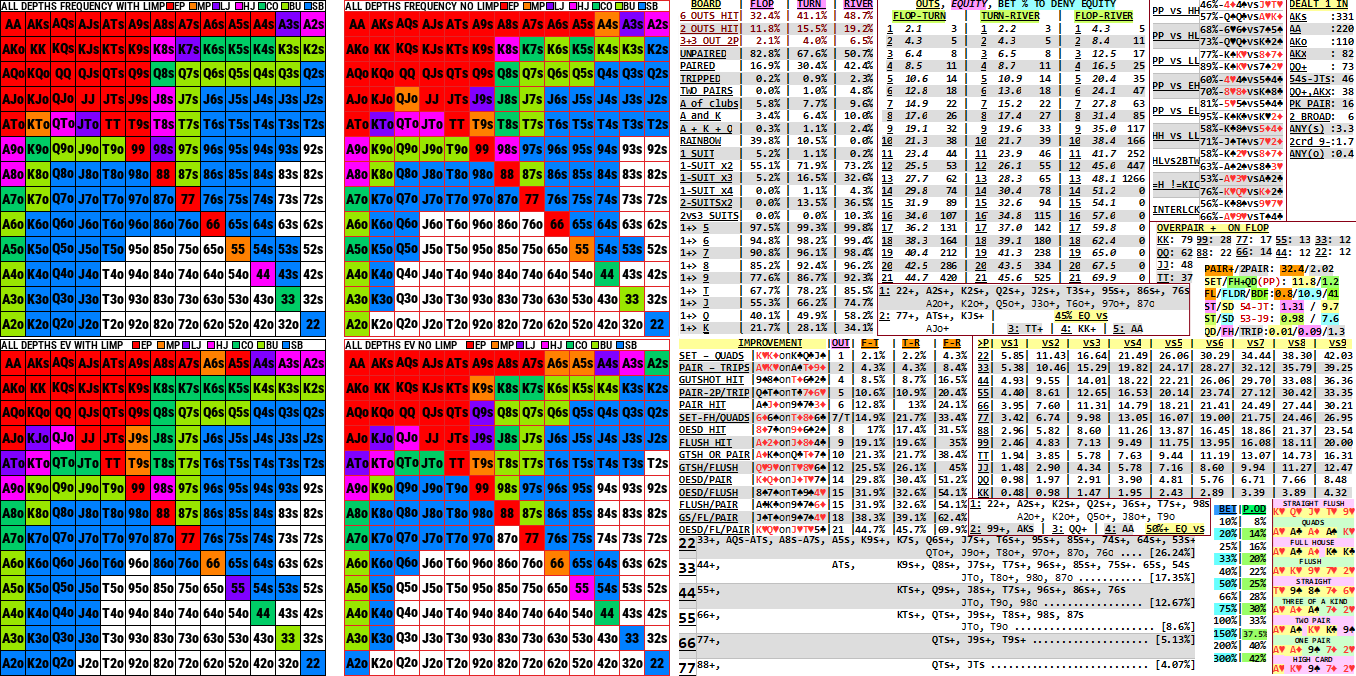
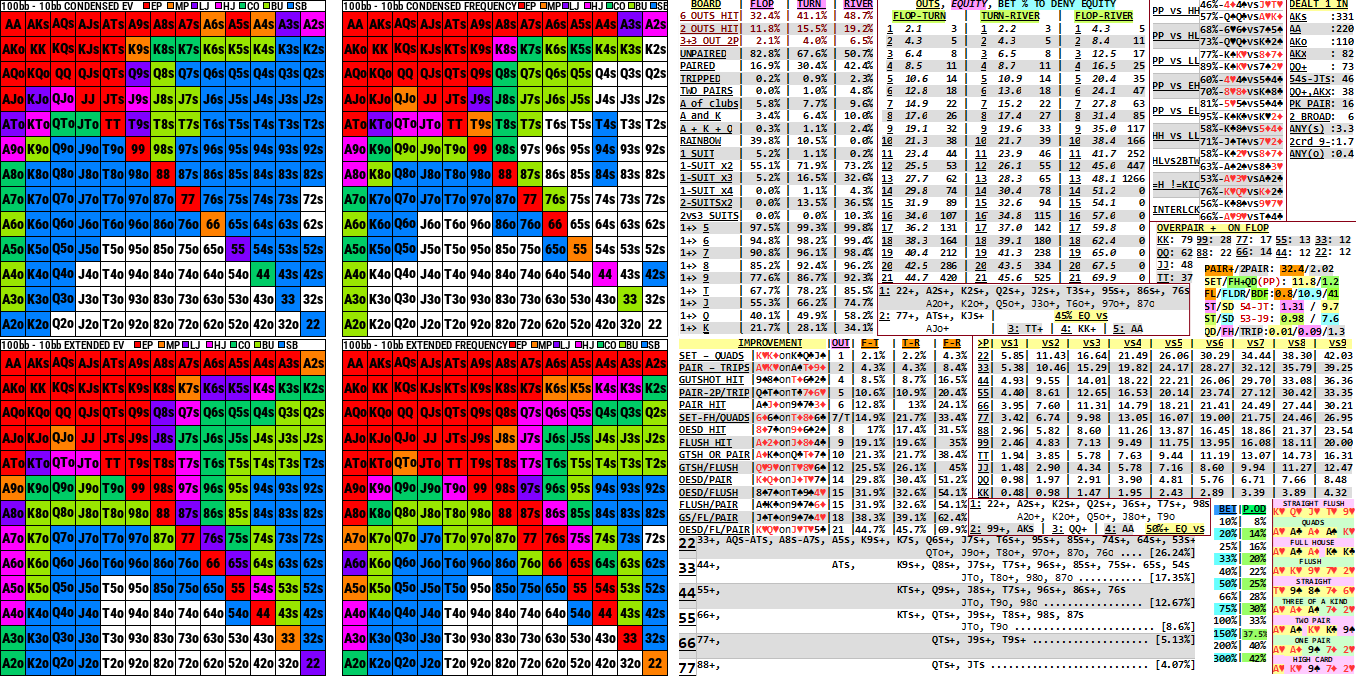
min added

Changed region(s): [[0.0, 0.0, 0.4956, 1.0]]

diff --git a/all_depths_condensed_charts.py b/all_depths_condensed_charts.py
@@ -187,17 +187,31 @@ for path_idx, path in enumerate(Path(origin_folder).iterdir()):
 
             actions_dict = data[1]
 
-            has_agg_ev = any(
-                v[1] > 0
-                for k, v in actions_dict.items()
-                if not k.startswith('F')
-            )
+            if hero_position == 'SB':
+                has_agg_ev = any(
+                    v[1] > 0
+                    for k, v in actions_dict.items()
+                    if not k.startswith('F') and not k.startswith('C')
+                )
+            else:
+                has_agg_ev = any(
+                    v[1] > 0
+                    for k, v in actions_dict.items()
+                    if not k.startswith('F')
+                )
 
-            has_agg_freq = any(
-                v[0] > 0
-                for k, v in actions_dict.items()
-                if not k.startswith('F')
-            )
+            if hero_position == 'SB':
+                has_agg_freq = any(
+                    v[0] > 0
+                    for k, v in actions_dict.items()
+                    if not k.startswith('F') and not k.startswith('C')
+                )
+            else:
+                has_agg_freq = any(
+                    v[0] > 0
+                    for k, v in actions_dict.items()
+                    if not k.startswith('F')
+                )
 
             if has_agg_ev:
                 depth_ev[depth_str][hero_position].add(combo)

diff --git a/mount_eight_imgs.py b/mount_eight_imgs.py
@@ -5,6 +5,8 @@ img_offset = {0: (0, 0), 1: (342, 0), 2: (686, 0), 3: (1030, 0), 4: (0, 339), 5:
 
 image_depth = Image.new("RGB", (1356, 676), "#FFFFFF")
 
+destination_folder = Path('condensed_images_wide_mounted')
+
 files = [
     Path('condensed_images_wide', '100bb_10bb_condensed_ev.png'),
     Path('condensed_images_wide', '100bb_10bb_condensed_frequency.png'),
@@ -16,14 +18,25 @@ files = [
     None, #Path('condensed_images_wide', '9bb_2bb_extended_frequency.png')
 ]
 
+string_set = set()
+
 for i, path in enumerate(files):
     if not path:
 
         continue
 
+    depth_string = "_".join(path.name.split("_")[:2])
+    string_set.add(depth_string)
+    
     x, y = img_offset[i]
 
     img = Image.open(path).convert("RGB")
     image_depth.paste(img, (x, y))
 
+file_name = '_'.join(sorted(string_set)) + '.png'
+
+destination_folder.mkdir(parents=True, exist_ok=True)
+final_path = Path(destination_folder, file_name)
+
 image_depth.show()
+image_depth.save(final_path)
